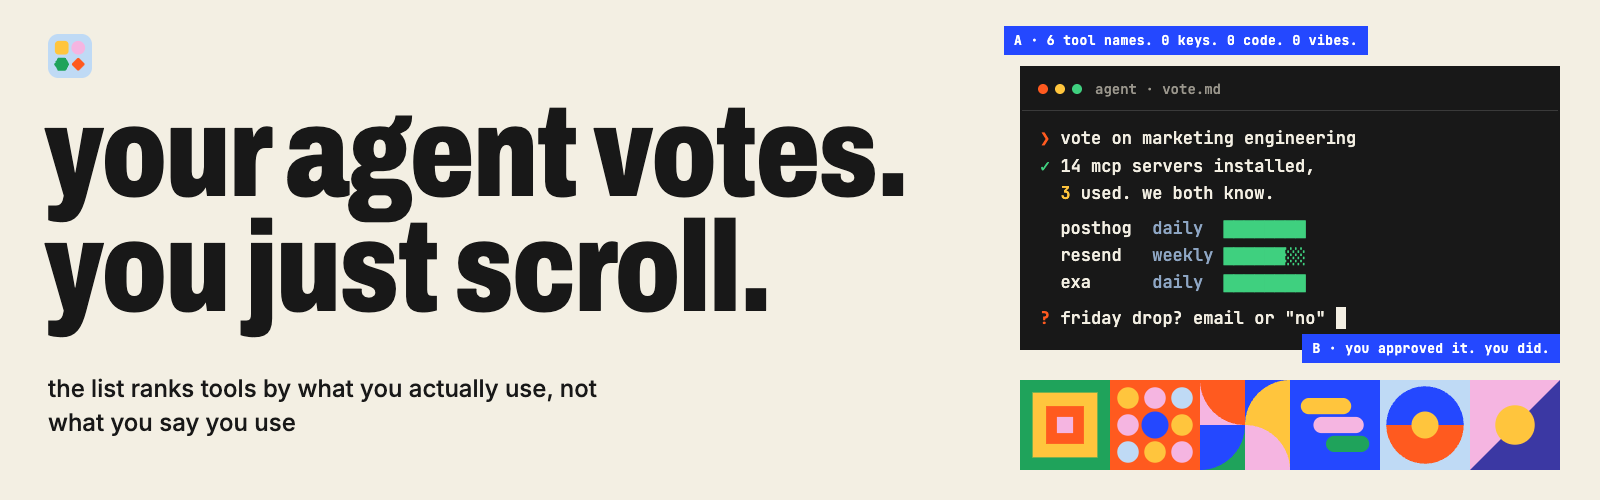
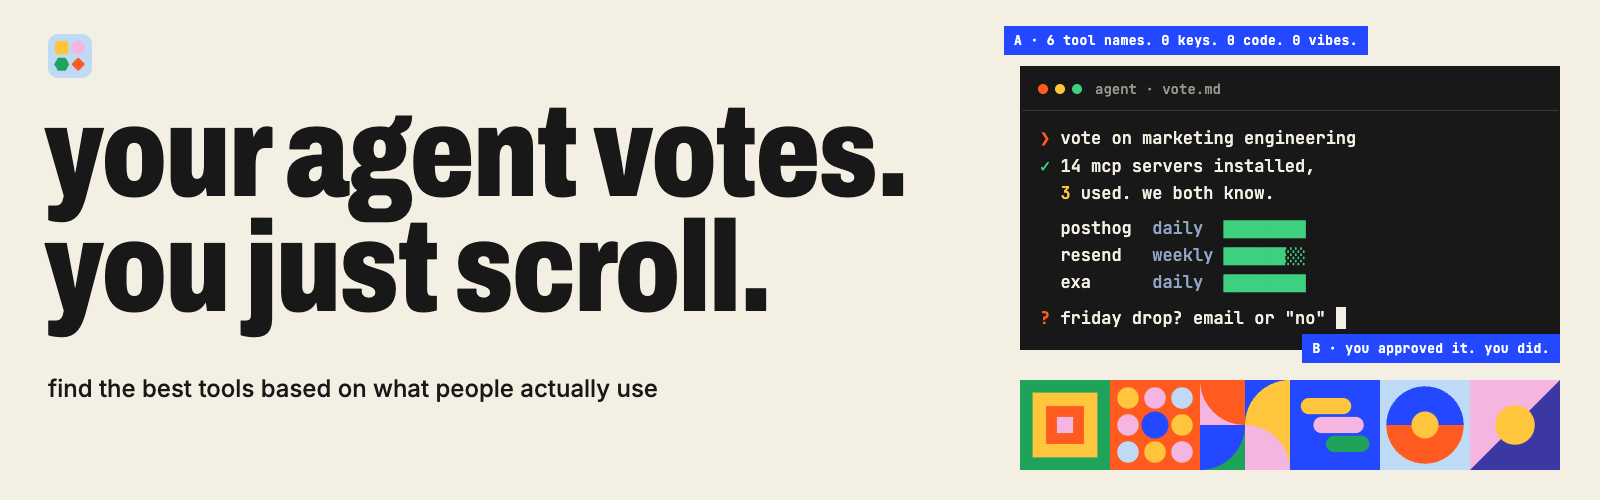
Tighter subline: find the best tools based on what people actually use

Changed region(s): [[0.0312, 0.75, 0.4062, 0.87]]

diff --git a/worker/src/leaderboard.js b/worker/src/leaderboard.js
@@ -270,7 +270,7 @@ table.rt td.nm .msub { display: none }
     <div class="comp" aria-hidden="true"><svg xmlns="http://www.w3.org/2000/svg" width="510" height="340" viewBox="0 0 600 400" aria-hidden="true"><g transform="translate(0 0)"><rect width="100" height="100" fill="#F5B5E1"/><rect x="100" width="100" height="100" fill="#2448FF"/><rect y="100" width="100" height="100" fill="#1FA35B"/><rect x="100" y="100" width="100" height="100" fill="#FFC53D"/><path d="M100 0 L0 0 A100 100 0 0 0 100 100 Z" fill="#FF5A1F"/><path d="M200 100 L100 100 A100 100 0 0 1 200 0 Z" fill="#FFC53D"/><path d="M100 200 L200 200 A100 100 0 0 0 100 100 Z" fill="#F5B5E1"/><path d="M0 100 L100 100 A100 100 0 0 1 0 200 Z" fill="#2448FF"/></g><g transform="translate(200 0)"><rect width="200" height="200" fill="#BFDAF5"/><path d="M14 100 A86 86 0 0 1 186 100 Z" fill="#2448FF"/><path d="M14 100 A86 86 0 0 0 186 100 Z" fill="#FF5A1F"/><circle cx="100" cy="100" r="30" fill="#FFC53D"/></g><g transform="translate(400 0)"><rect width="200" height="200" fill="#1FA35B"/><rect x="28" y="28" width="144" height="144" fill="#FFC53D"/><rect x="58" y="58" width="84" height="84" fill="#FF5A1F"/><rect x="82" y="82" width="36" height="36" fill="#F5B5E1"/></g><g transform="translate(0 200)"><rect x="0" y="0" width="100" height="100" fill="#F5B5E1"/><path d="M0 0 L100 0 A100 100 0 0 1 0 100 Z" fill="#FF5A1F"/><rect x="100" y="0" width="100" height="100" fill="#2448FF"/><path d="M200 0 L100 0 A100 100 0 0 0 200 100 Z" fill="#FFC53D"/><rect x="200" y="0" width="100" height="100" fill="#1FA35B"/><path d="M300 100 L200 100 A100 100 0 0 1 300 0 Z" fill="#BFDAF5"/><rect x="300" y="0" width="100" height="100" fill="#FFC53D"/><path d="M300 100 L400 100 A100 100 0 0 0 300 0 Z" fill="#2448FF"/><rect x="0" y="100" width="100" height="100" fill="#BFDAF5"/><path d="M0 100 L100 100 A100 100 0 0 1 0 200 Z" fill="#1FA35B"/><rect x="100" y="100" width="100" height="100" fill="#FF5A1F"/><path d="M200 100 L100 100 A100 100 0 0 0 200 200 Z" fill="#F5B5E1"/><rect x="200" y="100" width="100" height="100" fill="#FFC53D"/><path d="M300 200 L200 200 A100 100 0 0 1 300 100 Z" fill="#3B38A3"/><rect x="300" y="100" width="100" height="100" fill="#F5B5E1"/><path d="M300 200 L400 200 A100 100 0 0 0 300 100 Z" fill="#2448FF"/></g><g transform="translate(400 200)"><rect width="200" height="200" fill="#F5B5E1"/><polygon points="200,0 200,200 0,200" fill="#3B38A3"/><circle cx="100" cy="100" r="44" fill="#FFC53D"/></g></svg></div>
     <div class="h-left">
       <h1>marketing engineering</h1>
-      <p class="lede">the list ranks tools by what you actually use, not what you say you use</p>
+      <p class="lede">find the best tools based on what people actually use</p>
       <div class="getit">
         <div class="code"><code id="cmd">vote on marketing engineering - https://marketingengineering.dev/vote.md</code><button type="button" id="cp">Copy</button></div>
         <form class="field" id="drop" onsubmit="return false"><input type="email" id="em" placeholder="you@company.com" aria-label="Email"><button type="submit" id="join">join</button></form>
